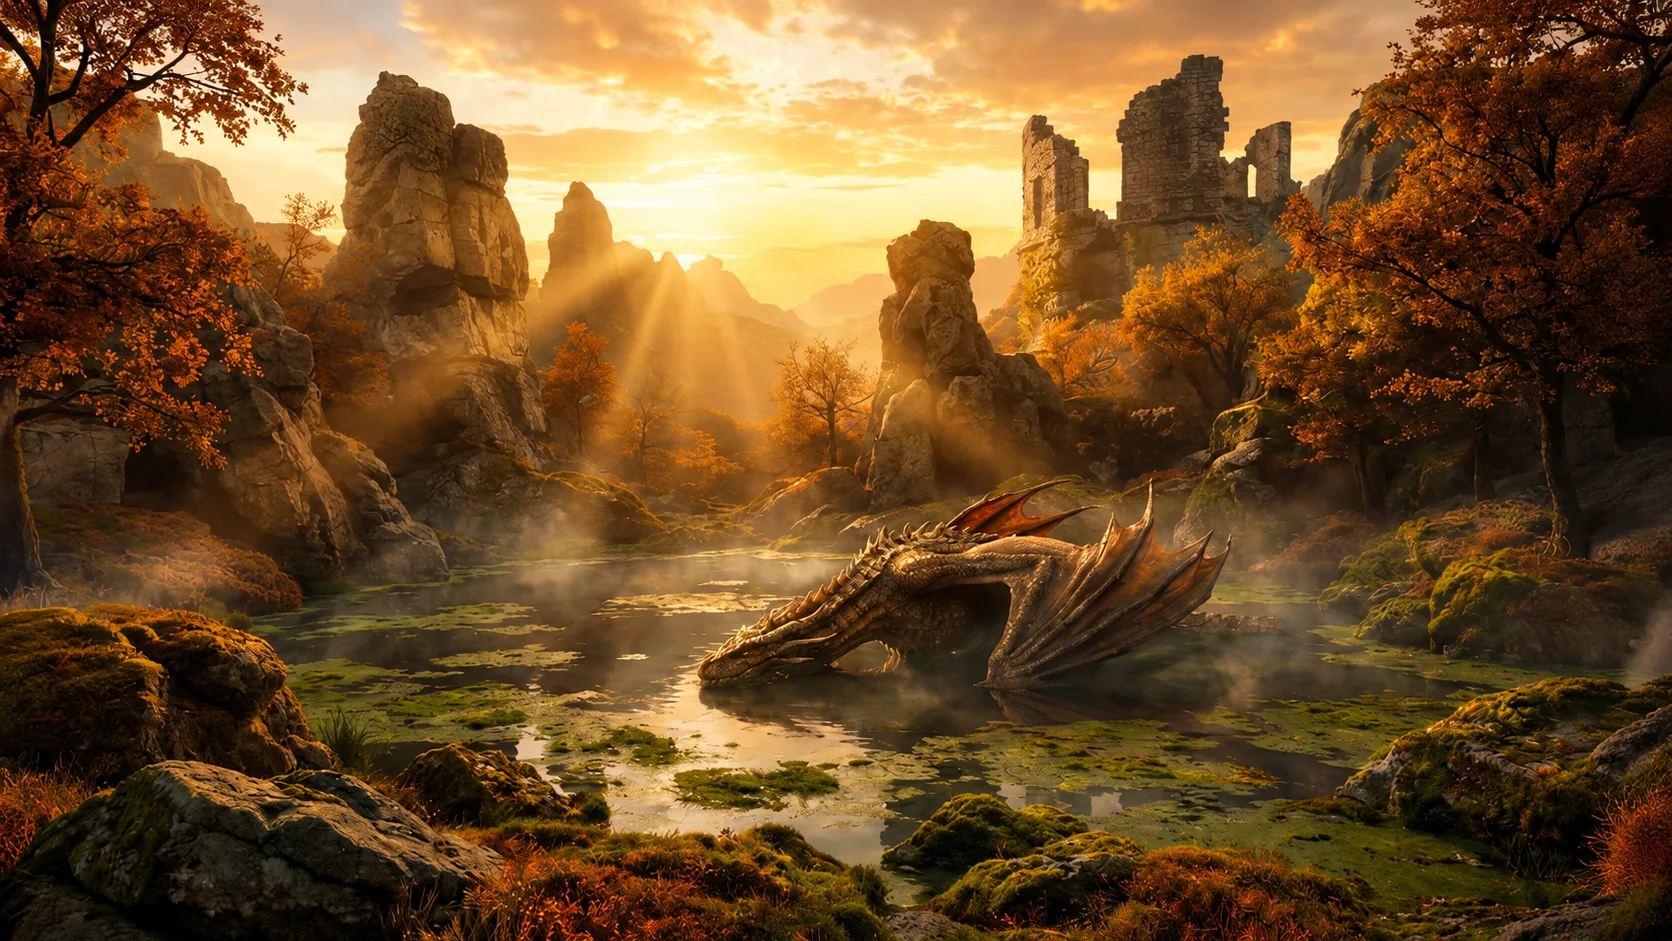
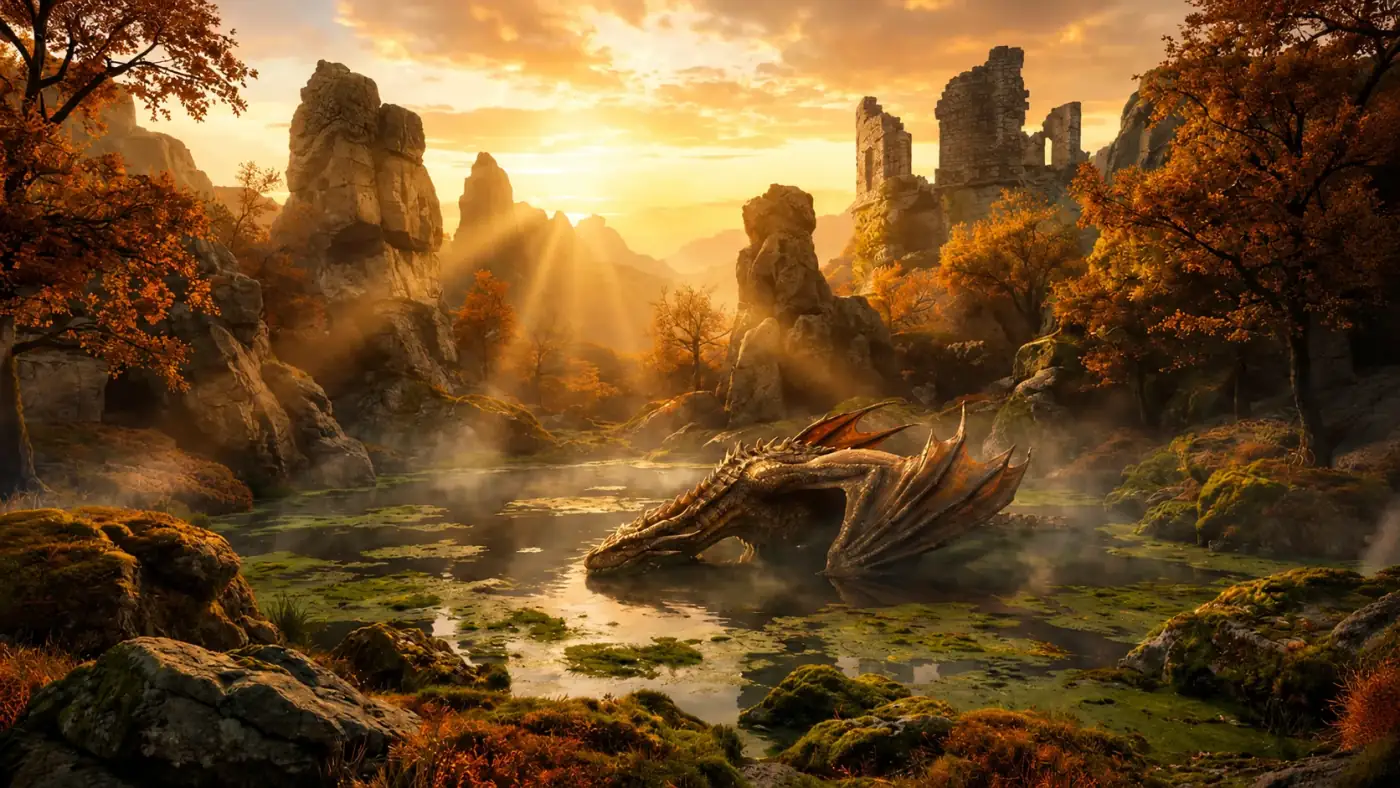
Instant load: theme-hue fallback + smaller webp + immutable cache
Three fixes stacked so backdrops read as instant instead of loading:

1. Fallback background-colour per theme (biggest visual win). Body
   now paints its theme ground colour the moment data-theme is set
   — no more white flash while the WebP decodes. Editorial cream,
   HotD parchment / obsidian, Sakura blush / deep indigo.

2. All backdrops re-encoded at 1400px width, quality 65 with slow
   compression. Total drops from 1.06 MB -> 466 KB (30x smaller
   than the original PNGs):
   - mountain-light 65K -> 30K
   - mountain-dark 34K -> 14K
   - hotd-light 302K -> 117K
   - hotd-dark 112K -> 37K
   - sakura-light 355K -> 178K
   - sakura-dark 196K -> 91K

3. vercel.json sets Cache-Control: public, max-age=31536000,
   immutable on every .webp/.png/.jpg/.svg/.woff/.woff2 file. After
   the first visit the browser NEVER refetches — theme switches and
   subsequent loads are 100% cache-served.

diff --git a/src/App.css b/src/App.css
@@ -579,12 +579,22 @@ body {
   color: var(--text-primary);
   font-family: 'Inter', -apple-system, 'SF Pro Display', 'Segoe UI', system-ui, sans-serif;
   min-height: 100vh;
+  background-color: var(--ground-fallback, #F4EDDD);
   background-image: var(--bg-image);
   background-size: cover;
   background-position: center;
   background-attachment: fixed;
   background-repeat: no-repeat;
 }
+/* Fallback ground colour per theme — paints the moment data-theme is
+   set so the correct hue is visible during the milliseconds the WebP
+   backdrop is decoding. Prevents the "blank white flash" on load. */
+:root, [data-theme="light"] { --ground-fallback: #F0EBDE; }
+[data-theme="dark"] { --ground-fallback: #1F1D18; }
+[data-theme="hotd-light"] { --ground-fallback: #F1E9D0; }
+[data-theme="hotd-dark"] { --ground-fallback: #0A0908; }
+[data-theme="sakura-light"] { --ground-fallback: #FFEEF3; }
+[data-theme="sakura-dark"] { --ground-fallback: #0B0715; }
 
 /* Scrim between the backdrop photo and every panel. Editorial's mountain
    images are quiet enough that no scrim is needed; the HotD photos are
